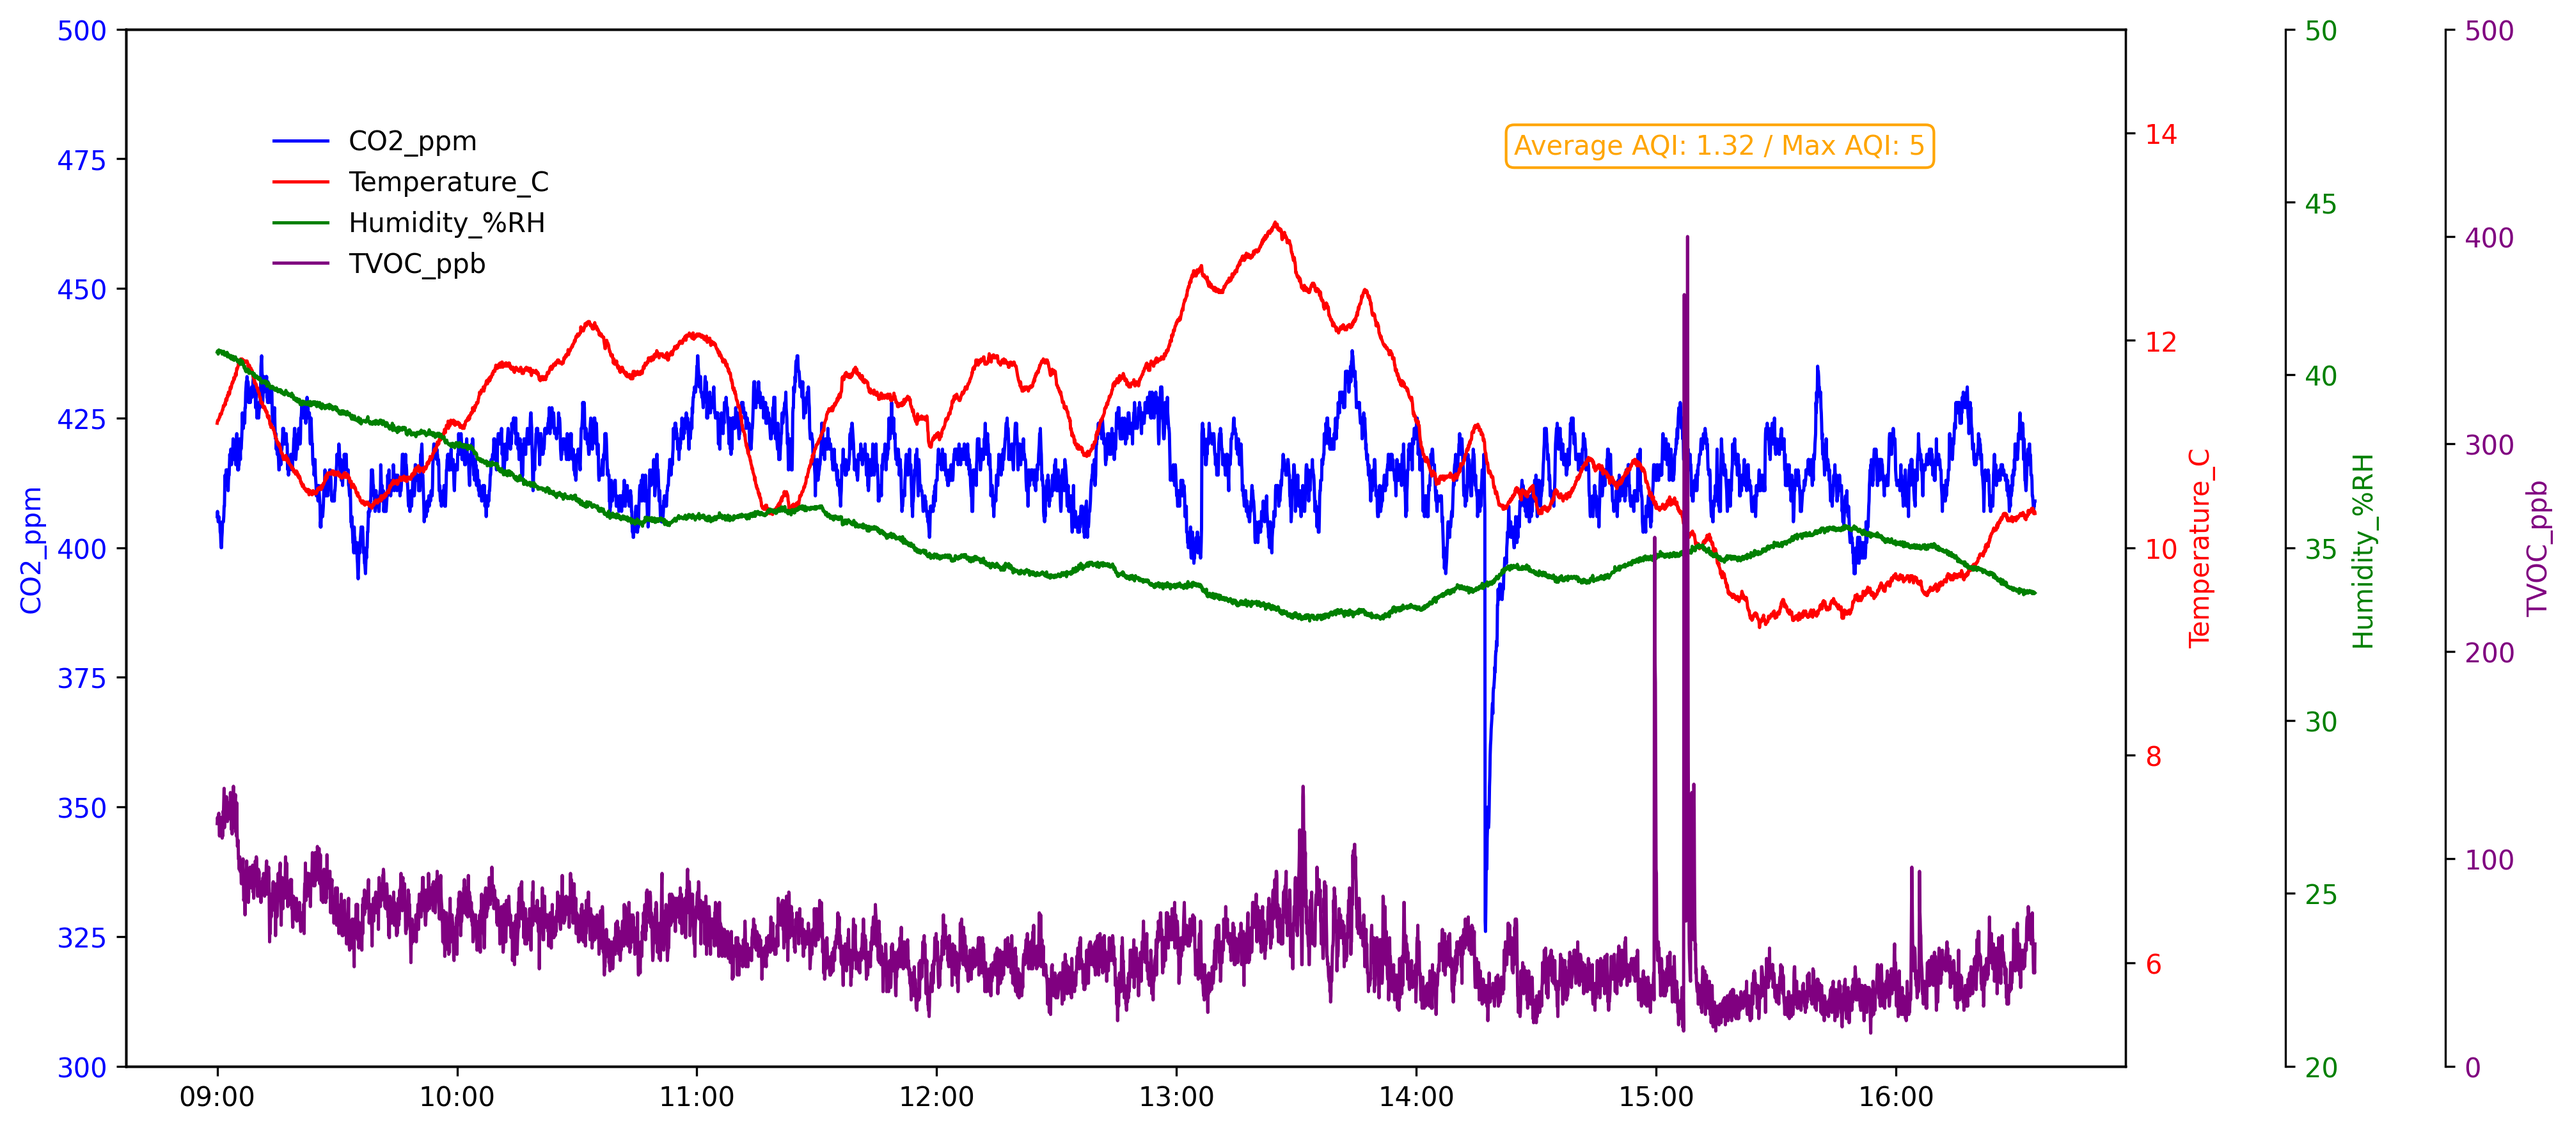
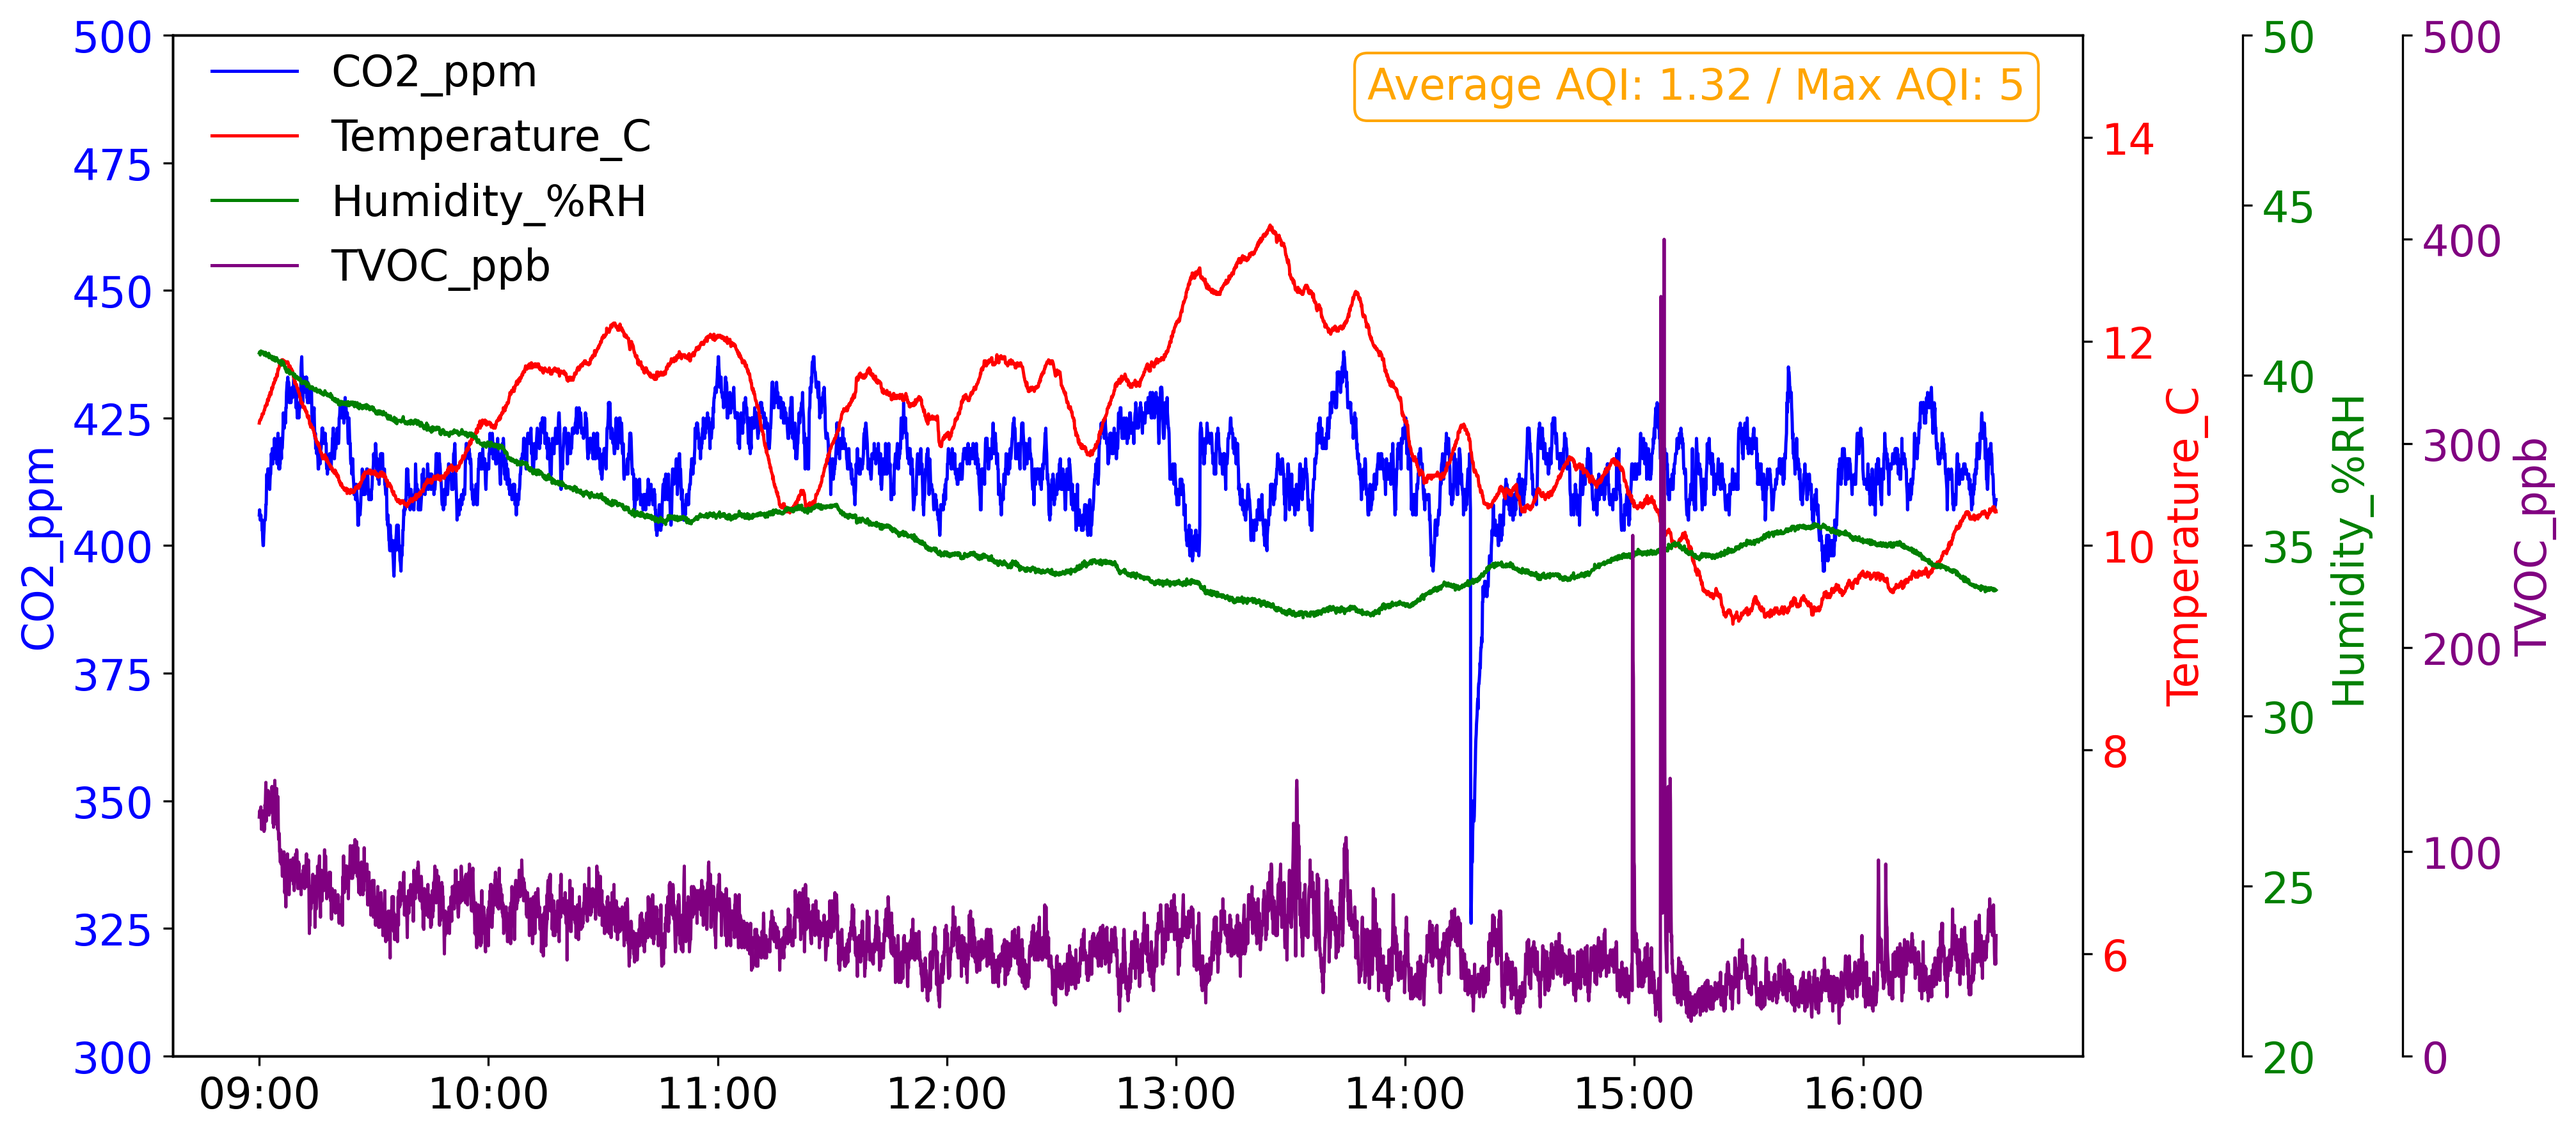
adjusted font size for paper

diff --git a/docs/data_analysis_11072024/plot_gas_smoothed.py b/docs/data_analysis_11072024/plot_gas_smoothed.py
@@ -10,71 +10,99 @@ rolling_window_size = 30  # Rolling window size for smoothing
 show_title = False  # Toggle to show or hide the title
 
 # Line properties for consistency in plot appearance
-line_width = 0.8  # Line width for all plots
-line_alpha = 0.7  # Transparency level for lines
+line_width = 1.2  # Line width for all plots
 
 # Colors for each gas plot
-colors = {
-    "H2": "blue",
-    "H2S": "red",
-    "NH3": "green",
-    "CH4": "purple",
-    "CO": "orange"
-}
+colors = {"H2": "blue", "H2S": "red", "NH3": "green", "CH4": "purple", "CO": "orange"}
 
 # Load data from CSV and convert timestamp to datetime format
 df = pd.read_csv(csv_file)
 df[timestamp_col] = pd.to_datetime(df[timestamp_col])
 
 # Interpolate missing/NaN values in CH4_ppm and CO_ppm for continuity
-df['CH4_ppm'] = df['CH4_ppm'].interpolate(method='linear')
-df['CO_ppm'] = df['CO_ppm'].interpolate(method='linear')
+df["CH4_ppm"] = df["CH4_ppm"].interpolate(method="linear")
+df["CO_ppm"] = df["CO_ppm"].interpolate(method="linear")
 
 # Apply a rolling mean to each gas concentration to smooth out the data
-df['H2_ppm_smooth'] = df['H2_ppm'].rolling(window=rolling_window_size).mean()
-df['H2S_ppm_smooth'] = df['H2S_ppm'].rolling(window=rolling_window_size).mean()
-df['NH3_ppm_smooth'] = df['NH3_ppm'].rolling(window=rolling_window_size).mean()
-df['CH4_ppm_smooth'] = df['CH4_ppm'].rolling(window=rolling_window_size).mean()
-df['CO_ppm_smooth'] = df['CO_ppm'].rolling(window=rolling_window_size).mean()
+df["H2_ppm_smooth"] = df["H2_ppm"].rolling(window=rolling_window_size).mean()
+df["H2S_ppm_smooth"] = df["H2S_ppm"].rolling(window=rolling_window_size).mean()
+df["NH3_ppm_smooth"] = df["NH3_ppm"].rolling(window=rolling_window_size).mean()
+df["CH4_ppm_smooth"] = df["CH4_ppm"].rolling(window=rolling_window_size).mean()
+df["CO_ppm_smooth"] = df["CO_ppm"].rolling(window=rolling_window_size).mean()
 
 # Create subplots with a broken y-axis to focus on specific ranges
-fig, (ax1, ax2) = plt.subplots(2, 1, sharex=True, gridspec_kw={'height_ratios': [1, 1.3]}, figsize=(14, 8))
+fig, (ax1, ax2) = plt.subplots(
+    2, 1, sharex=True, gridspec_kw={"height_ratios": [1, 1.3]}, figsize=(14, 8)
+)
 
 # Plot each gas on both axes to create a continuous view
 for gas, color in colors.items():
-    ax1.plot(df[timestamp_col], df[f"{gas}_ppm_smooth"], label=f"{gas}_ppm", color=color, linewidth=line_width, alpha=line_alpha)
-    ax2.plot(df[timestamp_col], df[f"{gas}_ppm_smooth"], label=f"{gas}_ppm", color=color, linewidth=line_width, alpha=line_alpha)
+    ax1.plot(
+        df[timestamp_col],
+        df[f"{gas}_ppm_smooth"],
+        label=f"{gas}_ppm",
+        color=color,
+        linewidth=line_width,
+    )
+    ax2.plot(
+        df[timestamp_col],
+        df[f"{gas}_ppm_smooth"],
+        label=f"{gas}_ppm",
+        color=color,
+        linewidth=line_width,
+    )
 
 # Set y-axis limits to create a "broken" effect
 ax1.set_ylim(2.2, 4)  # Top subplot shows 2-4 range
 ax2.set_ylim(0, 0.9)  # Bottom subplot shows 0-1 range
 
 # Hide the spines between the broken axis
-ax1.spines['bottom'].set_visible(False)
-ax2.spines['top'].set_visible(False)
-ax1.tick_params(labeltop=False)  # Hide top tick labels on top plot
-ax2.xaxis.tick_bottom()  # Only show ticks on the bottom plot
+ax1.spines["bottom"].set_visible(False)
+ax2.spines["top"].set_visible(False)
 
 # Add diagonal lines to indicate the break in the y-axis
-d = .008  # Size of diagonal lines for break indication
-kwargs = dict(transform=fig.transFigure, color='k', clip_on=False)
-ax1.plot([0, 1], [0, 0], **kwargs, marker=[(1-d, -d), (1, 0)], markersize=8, linestyle='None')
-ax2.plot([0, 1], [1, 1], **kwargs, marker=[(d, d), (0, 1)], markersize=8, linestyle='None')
+d = 0.008  # Size of diagonal lines for break indication
+kwargs = dict(transform=fig.transFigure, color="k", clip_on=False)
+ax1.plot(
+    [0, 1],
+    [0, 0],
+    **kwargs,
+    marker=[(1 - d, -d), (1, 0)],
+    markersize=8,
+    linestyle="None",
+)
+ax2.plot(
+    [0, 1], [1, 1], **kwargs, marker=[(d, d), (0, 1)], markersize=8, linestyle="None"
+)
 
 # Place the legend in the top-left corner of the top plot
-ax1.legend(loc="upper left", bbox_to_anchor=(0.05, 0.95), frameon=False)
+ax1.legend(loc="upper left", bbox_to_anchor=(0.0, 1.04), frameon=False, fontsize=16)
 
 # Adjust title, labels, and ticks for clarity
 if show_title:
-    ax1.set_title("Gas Concentrations - H2, H2S, NH3, CH4, CO (Smoothed with Rolling Mean, Broken Axis)")
+    ax1.set_title(
+        "Gas Concentrations - H2, H2S, NH3, CH4, CO (Smoothed with Rolling Mean, Broken Axis)",
+        fontsize=16,
+    )
 output_file_suffix = "" if show_title else "_notitle"
-output_file = os.path.join(os.path.dirname(__file__), f"gas_concentrations_smoothed{output_file_suffix}.png")
+output_file = os.path.join(
+    os.path.dirname(__file__), f"gas_concentrations_smoothed{output_file_suffix}.png"
+)
 
-ax2.set_ylabel("Gas Concentration (ppm)")
-ax2.xaxis.set_major_locator(mdates.HourLocator(interval=1))  # Hourly intervals for x-axis
-ax2.xaxis.set_major_formatter(mdates.DateFormatter("%H:%M"))  # Format as hours and minutes
-plt.xticks(rotation=45, ha='right')  # Rotate x-axis labels for readability
+# Set y-axis labels with consistent font size for both axes
+# ax1.set_ylabel("Gas Concentration (ppm)", fontsize=16)
+ax2.set_ylabel("Gas Concentration (ppm)", fontsize=16)
+
+# Ensure tick labels on both axes are consistent in size
+ax1.tick_params(axis="y", labelsize=16)
+ax2.tick_params(axis="y", labelsize=16)
+
+ax2.xaxis.set_major_locator(
+    mdates.HourLocator(interval=1)
+)  # Hourly intervals for x-axis
+ax2.xaxis.set_major_formatter(mdates.DateFormatter("%H:%M"))
+plt.xticks(rotation=45, ha="right", fontsize=16)  # Rotate x-axis labels for readability
 
 # Save the plot as a PNG file
-plt.savefig(output_file, dpi=300, bbox_inches='tight')
+plt.savefig(output_file, dpi=300, bbox_inches="tight")
 plt.close()

diff --git a/docs/data_analysis_11072024/plot_env.py b/docs/data_analysis_11072024/plot_env.py
@@ -42,8 +42,8 @@ lines, labels = [], []
     color=colors["CO2"],
     linewidth=line_width,
 )
-ax1.set_ylabel("CO2_ppm", color=colors["CO2"])
-ax1.tick_params(axis="y", labelcolor=colors["CO2"])
+ax1.set_ylabel("CO2_ppm", color=colors["CO2"], fontsize=16)
+ax1.tick_params(axis="y", labelcolor=colors["CO2"], labelsize=16)
 ax1.set_ylim(co2_ylim)
 lines.append(line1)
 labels.append("CO2_ppm")
@@ -57,8 +57,8 @@ ax2 = ax1.twinx()
     color=colors["Temperature"],
     linewidth=line_width,
 )
-ax2.set_ylabel("Temperature_C", color=colors["Temperature"])
-ax2.tick_params(axis="y", labelcolor=colors["Temperature"])
+ax2.set_ylabel("Temperature_C", color=colors["Temperature"], fontsize=16)
+ax2.tick_params(axis="y", labelcolor=colors["Temperature"], labelsize=16)
 ax2.set_ylim(temp_ylim)
 lines.append(line2)
 labels.append("Temperature_C")
@@ -73,8 +73,8 @@ ax3.spines["right"].set_position(("outward", 60))
     color=colors["Humidity"],
     linewidth=line_width,
 )
-ax3.set_ylabel("Humidity_%RH", color=colors["Humidity"])
-ax3.tick_params(axis="y", labelcolor=colors["Humidity"])
+ax3.set_ylabel("Humidity_%RH", color=colors["Humidity"], fontsize=16)
+ax3.tick_params(axis="y", labelcolor=colors["Humidity"], labelsize=16)
 ax3.set_ylim(humidity_ylim)
 lines.append(line3)
 labels.append("Humidity_%RH")
@@ -89,8 +89,8 @@ ax4.spines["right"].set_position(("outward", 120))
     color=colors["TVOC"],
     linewidth=line_width,
 )
-ax4.set_ylabel("TVOC_ppb", color=colors["TVOC"])
-ax4.tick_params(axis="y", labelcolor=colors["TVOC"])
+ax4.set_ylabel("TVOC_ppb", color=colors["TVOC"], fontsize=16)
+ax4.tick_params(axis="y", labelcolor=colors["TVOC"], labelsize=16)
 ax4.set_ylim(tvoc_ylim)
 lines.append(line4)
 labels.append("TVOC_ppb")
@@ -98,9 +98,9 @@ labels.append("TVOC_ppb")
 # Annotate average AQI information in the top right corner
 ax1.annotate(
     f"Average AQI: {avg_aqi:.2f} / Max AQI: {max_aqi}",
-    xy=(0.9, 0.9),
+    xy=(0.97, 0.97),
     xycoords="axes fraction",
-    fontsize=10,
+    fontsize=16,
     color="orange",
     ha="right",
     va="top",
@@ -109,12 +109,20 @@ ax1.annotate(
 
 # Place consolidated legend in the top-left corner of the plot, stacked vertically
 fig.legend(
-    lines, labels, loc="upper left", frameon=False, bbox_to_anchor=(0.1, 0.9), ncol=1
+    lines,
+    labels,
+    loc="upper left",
+    frameon=False,
+    bbox_to_anchor=(0.07, 0.98),
+    ncol=1,
+    fontsize=16,
 )
 
 # Formatting for title, x-axis, and tick labels
 if show_title:
-    ax1.set_title("Environmental Data - CO2, Temperature, Humidity, and TVOC")
+    ax1.set_title(
+        "Environmental Data - CO2, Temperature, Humidity, and TVOC", fontsize=16
+    )
 output_file_suffix = "" if show_title else "_notitle"
 output_file = os.path.join(
     os.path.dirname(__file__), f"environment_data{output_file_suffix}.png"
@@ -124,7 +132,8 @@ ax1.xaxis.set_major_locator(
     mdates.HourLocator(interval=1)
 )  # Hourly intervals for x-axis
 ax1.xaxis.set_major_formatter(mdates.DateFormatter("%H:%M"))
-plt.xticks(rotation=45, ha="right")  # Rotate x-axis labels for readability
+ax1.tick_params(axis="x", labelsize=16)
+plt.xticks(rotation=45, ha="right", fontsize=16)  # Set x-axis tick label size to 16
 fig.tight_layout()  # Adjust layout for clarity
 
 # Save the plot as a PNG file
